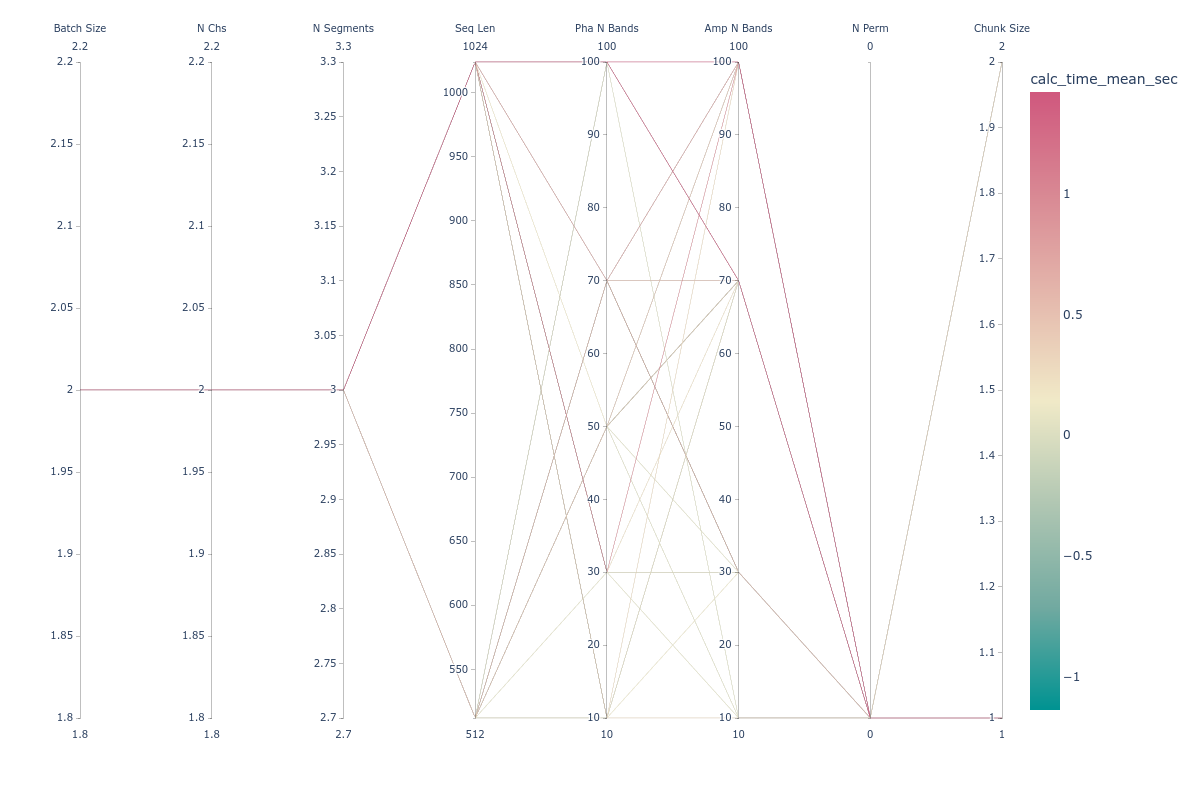
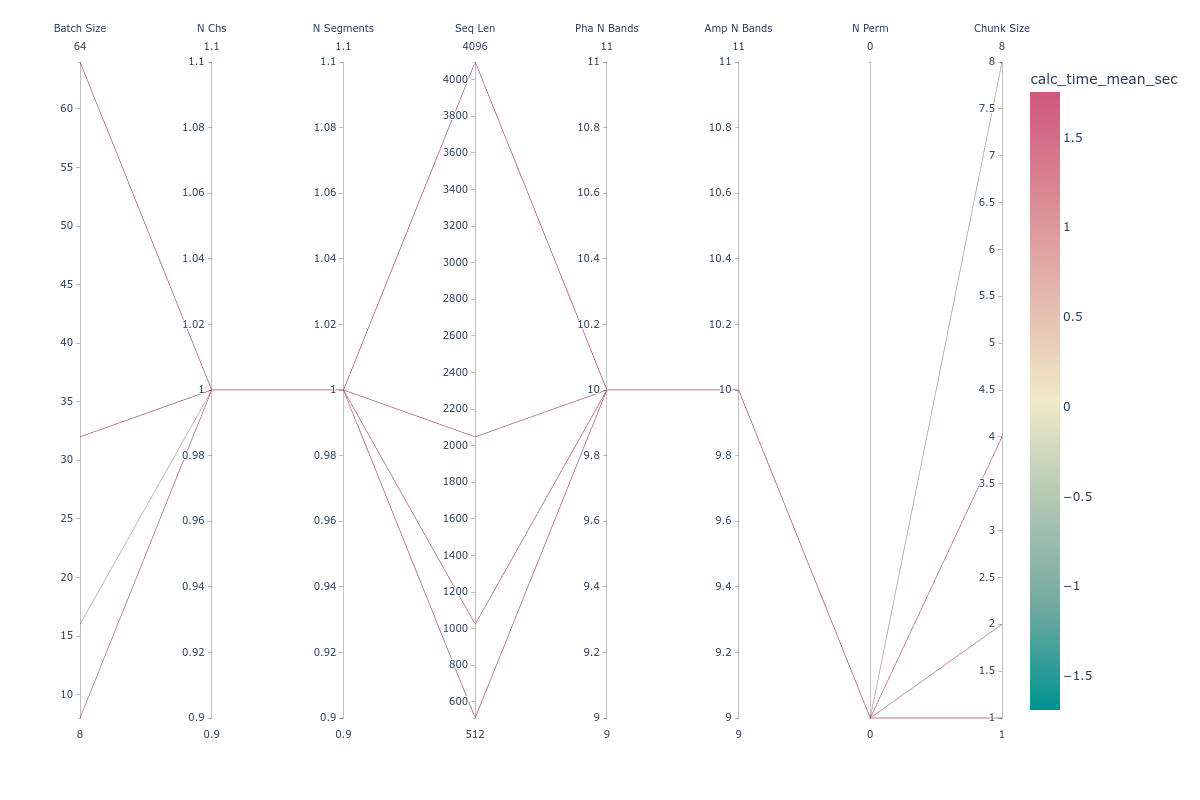
update

diff --git a/scripts/summarize.py b/scripts/summarize.py
@@ -1,6 +1,6 @@
 #!./env/bin/python3
 # -*- coding: utf-8 -*-
-# Time-stamp: "2024-04-23 14:56:06"
+# Time-stamp: "2024-04-23 18:30:14"
 # Author: Yusuke Watanabe (ywata1989@gmail.com)
 
 
@@ -72,6 +72,20 @@ def link_results():
 def main():
     df = link_results()
 
+    # Convert columns that are categorical to the 'category' data type
+    categorical_columns = [
+        "fp16",  # categorical
+        "no_grad",  # categorical
+        "in_place",  # categorical
+        "trainable",  # categorical
+        "device",  # categorical
+        "use_threads",  # categorical
+        "package",  # categorical
+    ]
+    for col in categorical_columns:
+        df[col] = df[col].astype("category")
+
+    # All columns to plot
     columns = [
         "time",
         # "init_time_mean_sec",
@@ -84,16 +98,16 @@ def main():
         "amp_n_bands",
         "n_perm",
         "chunk_size",
-        "fp16",
-        "no_grad",
-        "in_place",
-        "trainable",
-        "device",
-        "use_threads",
-        "package",
-        "seq_len",
+        "fp16",  # categorical
+        "no_grad",  # categorical
+        "in_place",  # categorical
+        "trainable",  # categorical
+        "device",  # categorical
+        "use_threads",  # categorical
+        "package",  # categorical
     ]
 
+    # Plots
     fig = px.parallel_coordinates(
         df.reset_index(),
         dimensions=columns,  # Specify the order of axes if needed
@@ -127,6 +141,106 @@ def main():
     # )
 
     mngs.io.save(fig, "parallel_plot.png")
+
+
+def drop_cols(df):
+    cols_del = [
+        "time",
+        "init_time_mean_sec",
+        "init_time_std_sec",
+        "init_time_nn",
+        "calc_time_std_sec",
+        "calc_time_nn",
+        0,
+    ]
+
+    for k in cols_del:
+        del df[k]
+
+    df = df[~df.n_calc.isna()]
+
+    return df
+
+
+def get_indi(df, tgt_col=None):
+    cols = [
+        "batch_size",
+        "n_chs",
+        "n_segments",
+        "t_sec",
+        "fs",
+        "pha_n_bands",
+        "amp_n_bands",
+        "pha_n_bands",
+        "amp_n_bands",
+        "chunk_size",
+        "seq_len",
+        "n_calc",
+    ]
+
+    if tgt_col in cols:
+        cols.remove(tgt_col)
+
+    base_conditions = df[cols].min()
+    indi = []
+    for k, v in base_conditions.items():
+        indi.append(df[k] == v)
+    indi = np.array(indi).all(axis=0)
+    return indi
+
+
+def print_uniques(df):
+    print()
+    for k in df.columns:
+        print(k, df[k].unique())
+
+
+def plot(df, tgt_col):
+    # Slices the df
+    df = df[get_indi(df, tgt_col)]
+
+    # Plots
+    fig, ax = mngs.plt.subplots()
+    yy = df["calc_time_mean_sec"]
+    xx = df[tgt_col]
+    pp = df["package"]
+
+    if tgt_col == "seq_len":
+        import ipdb
+
+        ipdb.set_trace()
+
+    for _pp in pp.unique():
+        # Color
+        cc = {
+            "mngs": CC["blue"],
+            "tensorpac": CC["red"],
+        }[_pp]
+        # Slices for packages
+        _ii = np.array(pp == _pp)
+        _xx = np.array(xx[_ii])
+        _yy = np.array(yy[_ii])
+
+        # Sort according to the x axis
+        _ii = np.argsort(_xx)
+        _xx = _xx[_ii]
+        _yy = _yy[_ii]
+
+        ax.plot(_xx, _yy, label=_pp, color=cc)
+        ax.set_xyt(tgt_col, "Calculation time [s]", "PAC Calculation")
+        ax.legend()
+        # ax.set_yscale("log")
+    return fig
+
+
+def main():
+    df = link_results()
+    df = drop_cols(df)
+    # print_uniques(df)
+
+    for tgt_col in ["batch_size", "chunk_size", "seq_len", "n_calc"]:
+        fig = plot(df, tgt_col)
+        mngs.io.save(fig, tgt_col + ".png")
 
 
 if __name__ == "__main__":

diff --git a/scripts/generate_param_spaces.py b/scripts/generate_param_spaces.py
@@ -1,6 +1,6 @@
 #!./env/bin/python3
 # -*- coding: utf-8 -*-
-# Time-stamp: "2024-04-23 15:33:05"
+# Time-stamp: "2024-04-23 18:36:14"
 # Author: Yusuke Watanabe (ywata1989@gmail.com)
 
 """
@@ -16,7 +16,7 @@ import mngs
 
 # Functions
 def main():
-    # Define parameter spaces
+    # Base parameters
     PARAMS_GRID_BASE = {
         # Inputs shapes
         "batch_size": [1],
@@ -36,47 +36,68 @@ def main():
         "trainable": [False],
         "device": ["cuda"],
         "use_threads": [False],
+        "n_calc": [1],
         # Model switch
         "package": ["tensorpac", "mngs"],
     }
+
+    # Ideal Parameters
+    PARAMS_GRID_IDEAL = {
+        # Inputs shapes
+        "batch_size": [8, 16, 32, 64],
+        "n_chs": [8, 16, 32, 64],
+        "n_segments": [1, 2, 4, 8, 16],
+        "t_sec": [1, 2, 4, 8],
+        # Signal properties
+        "fs": [512, 1024],
+        "pha_n_bands": [10, 30, 50, 70, 100],
+        "amp_n_bands": [10, 30, 50, 70, 100],
+        # Calculation options
+        "n_perm": [None],
+        "chunk_size": [1, 2, 4, 8],
+        "fp16": [True, False],
+        "in_place": [False, True],
+        "trainable": [False, True],
+        "device": ["cpu", "cuda"],
+        "use_threads": [False, True],
+        "no_grad": [True, False],
+        "n_calc": [1, 2, 4, 8],
+        # Model switch
+        "package": ["tensorpac", "mngs"],
+    }
+
+    # Construct experimental parameter spaces
     PARAMS_GRID = PARAMS_GRID_BASE
+    UPDATE_KEYS = [
+        "batch_size",
+        "n_chs",
+        "n_segments",
+        "t_sec",
+        "fs",
+        "pha_n_bands",
+        "amp_n_bands",
+        "chunk_size",
+        "fp16",
+        "in_place",
+        "trainable",
+        "device",
+        "use_threads",
+        "no_grad",
+        "n_calc",
+    ]
+    UPDATE_DICT = {k: PARAMS_GRID_IDEAL[k] for k in UPDATE_KEYS}
+    PARAMS_GRID.update(UPDATE_DICT)
 
-    # PARAMS_GRID_FINAL = {
-    #     # Inputs shapes
-    #     "batch_size": [2**i for i in [3, 4, 5, 6]],
-    #     "n_chs": [2**i for i in [3, 4, 5, 6]],
-    #     "n_segments": [2**i for i in range(5)],
-    #     "t_sec": [1, 2, 4, 8],
-    #     # Signal properties
-    #     "fs": [512],
-    #     "pha_n_bands": [10, 30, 50, 70, 100],
-    #     "amp_n_bands": [10, 30, 50, 70, 100],
-    #     # Calculation options
-    #     "n_perm": [None],
-    #     "chunk_size": [1, 2, 4, 8],
-    #     "fp16": [True, False],
-    #     "in_place": [False, True],
-    #     "trainable": [False, True],
-    #     "device": ["cpu", "cuda"],
-    #     "use_threads": [False, True],
-    #     "no_grad": [True, False],
-    #     # Model switch
-    #     "package": ["tensorpac", "mngs"],
-    # }
-
+    # Print
     print(PARAMS_GRID)
     print(f"{mngs.ml.utils.grid_search.count_grids(PARAMS_GRID):,}")
 
     # Saves the defined grid space
     mngs.io.save(PARAMS_GRID, "./config/PARAM_SPACES.yaml")
 
-    # Loads
+    # Loads the saved yaml for confirmation
     params_grid = mngs.io.load("./config/PARAM_SPACES.yaml")
     assert params_grid == PARAMS_GRID
-
-    # # Example of using the generator
-    # for param_dict in mngs.ml.utils.grid_search.yield_grids(PARAMS_GRID):
-    #     print(param_dict)
 
 
 if __name__ == "__main__":

diff --git a/scripts/main.py b/scripts/main.py
@@ -1,6 +1,6 @@
 #!./env/bin/python3
 # -*- coding: utf-8 -*-
-# Time-stamp: "2024-04-23 15:42:08"
+# Time-stamp: "2024-04-23 18:32:03"
 # Author: Yusuke Watanabe (ywata1989@gmail.com)
 
 """
@@ -34,6 +34,7 @@ def init_model(params):
             "t_sec",
             "package",
             "no_grad",
+            "n_calc",
         ]:
             del params_h[k]
 
@@ -55,6 +56,7 @@ def prepare_signal(params):
             batch_size=params["batch_size"],
             n_chs=params["n_chs"],
             t_sec=params["t_sec"],
+            fs=params["fs"],
             n_segments=params["n_segments"],
             sig_type="pac",
         )
@@ -75,7 +77,7 @@ def prepare_signal(params):
         print(e)
 
 
-def main(params, N_CALC=3):
+def main(params):
     import matplotlib.pyplot as plt
 
     ts = mngs.gen.TimeStamper()
@@ -103,12 +105,12 @@ def main(params, N_CALC=3):
     # Calculation
     if params["no_grad"]:
         with torch.no_grad():
-            for _ in range(N_CALC):
+            for _ in range(params["n_calc"]):
                 model.ts(model.calc_start_str)
                 model.calc_pac(xx)
                 model.ts(model.calc_end_str)
     else:
-        for _ in range(N_CALC):
+        for _ in range(params["n_calc"]):
             model.ts(model.calc_start_str)
             model.calc_pac(xx)
             model.ts(model.calc_end_str)

diff --git a/README.md b/README.md
@@ -34,6 +34,7 @@ $ python -m venv env && source ./env/bin/activate && python -m pip install -U pi
 sudo nvidia-smi -pm 1
 ss run_experiment
 ./scripts/run_experiment.sh
+./scripts/main.py
 ./scripts/summarize.py
 ```
 
